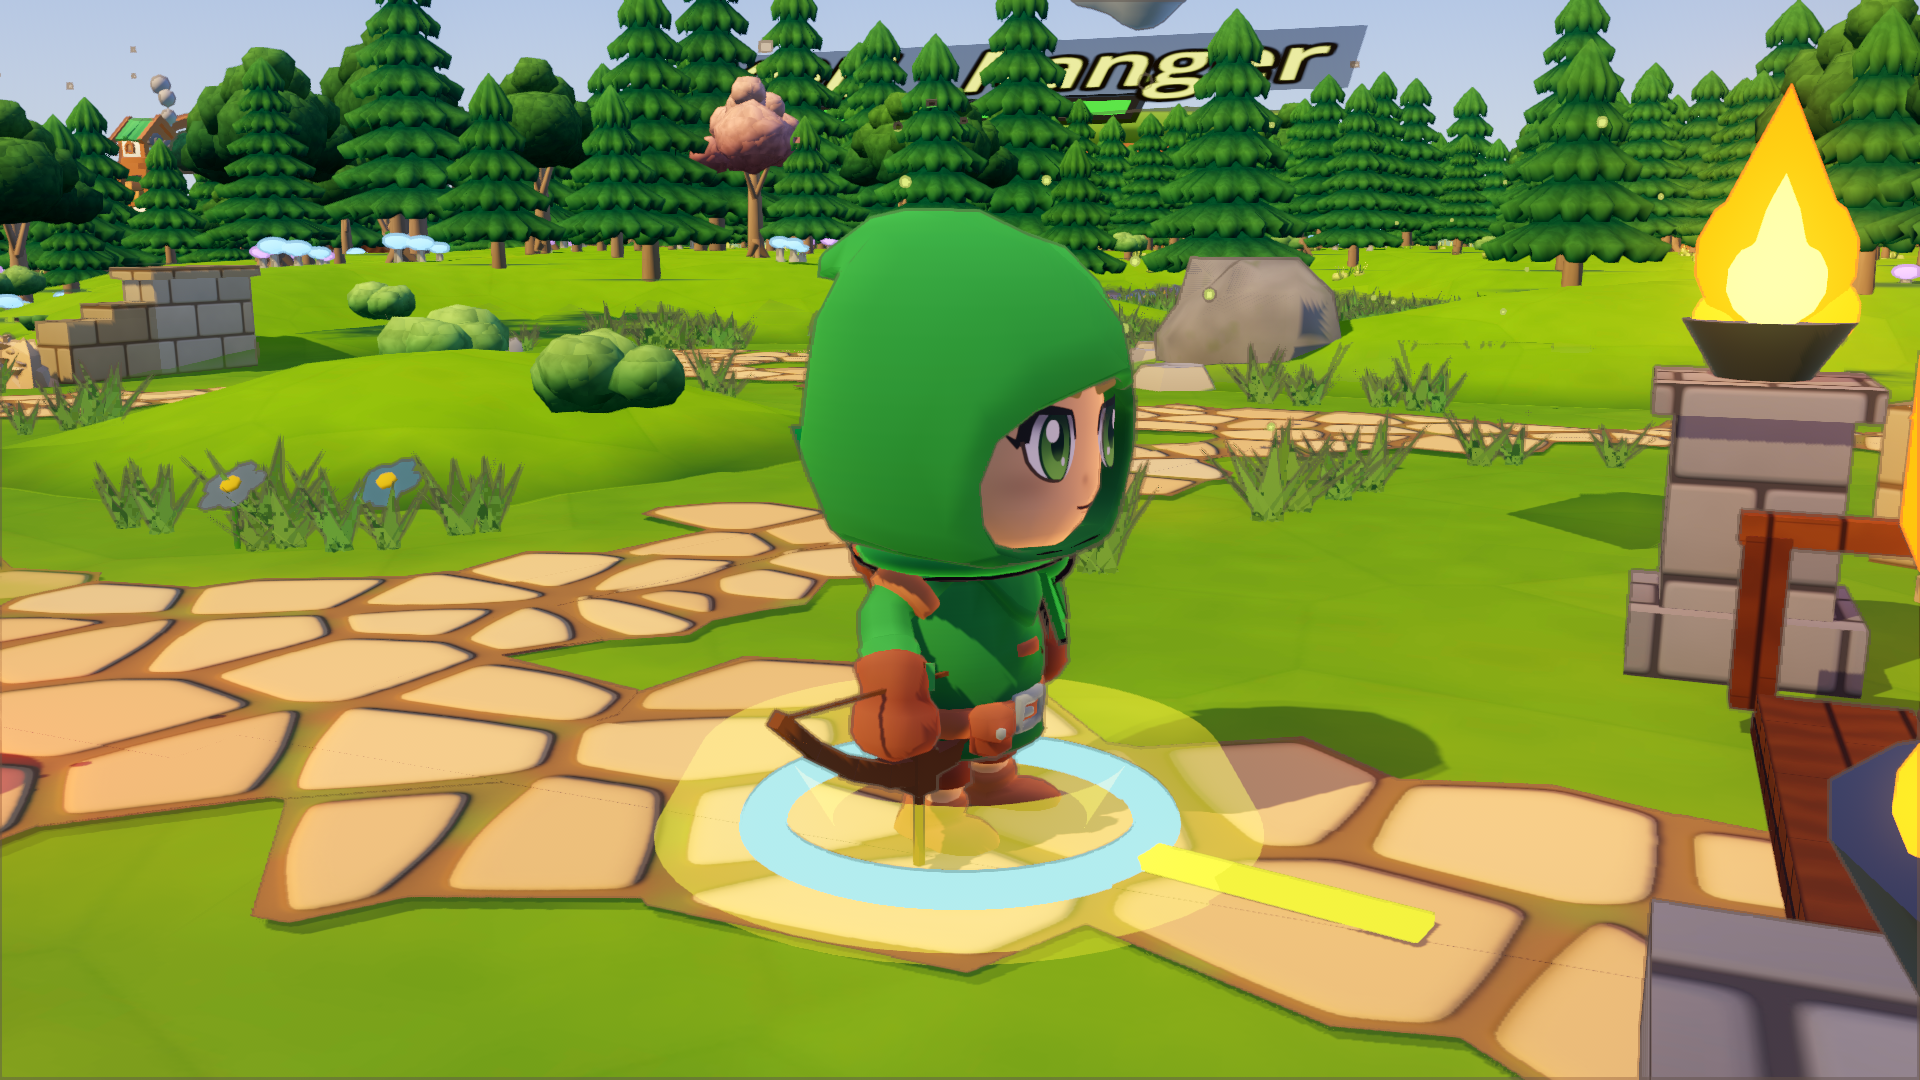
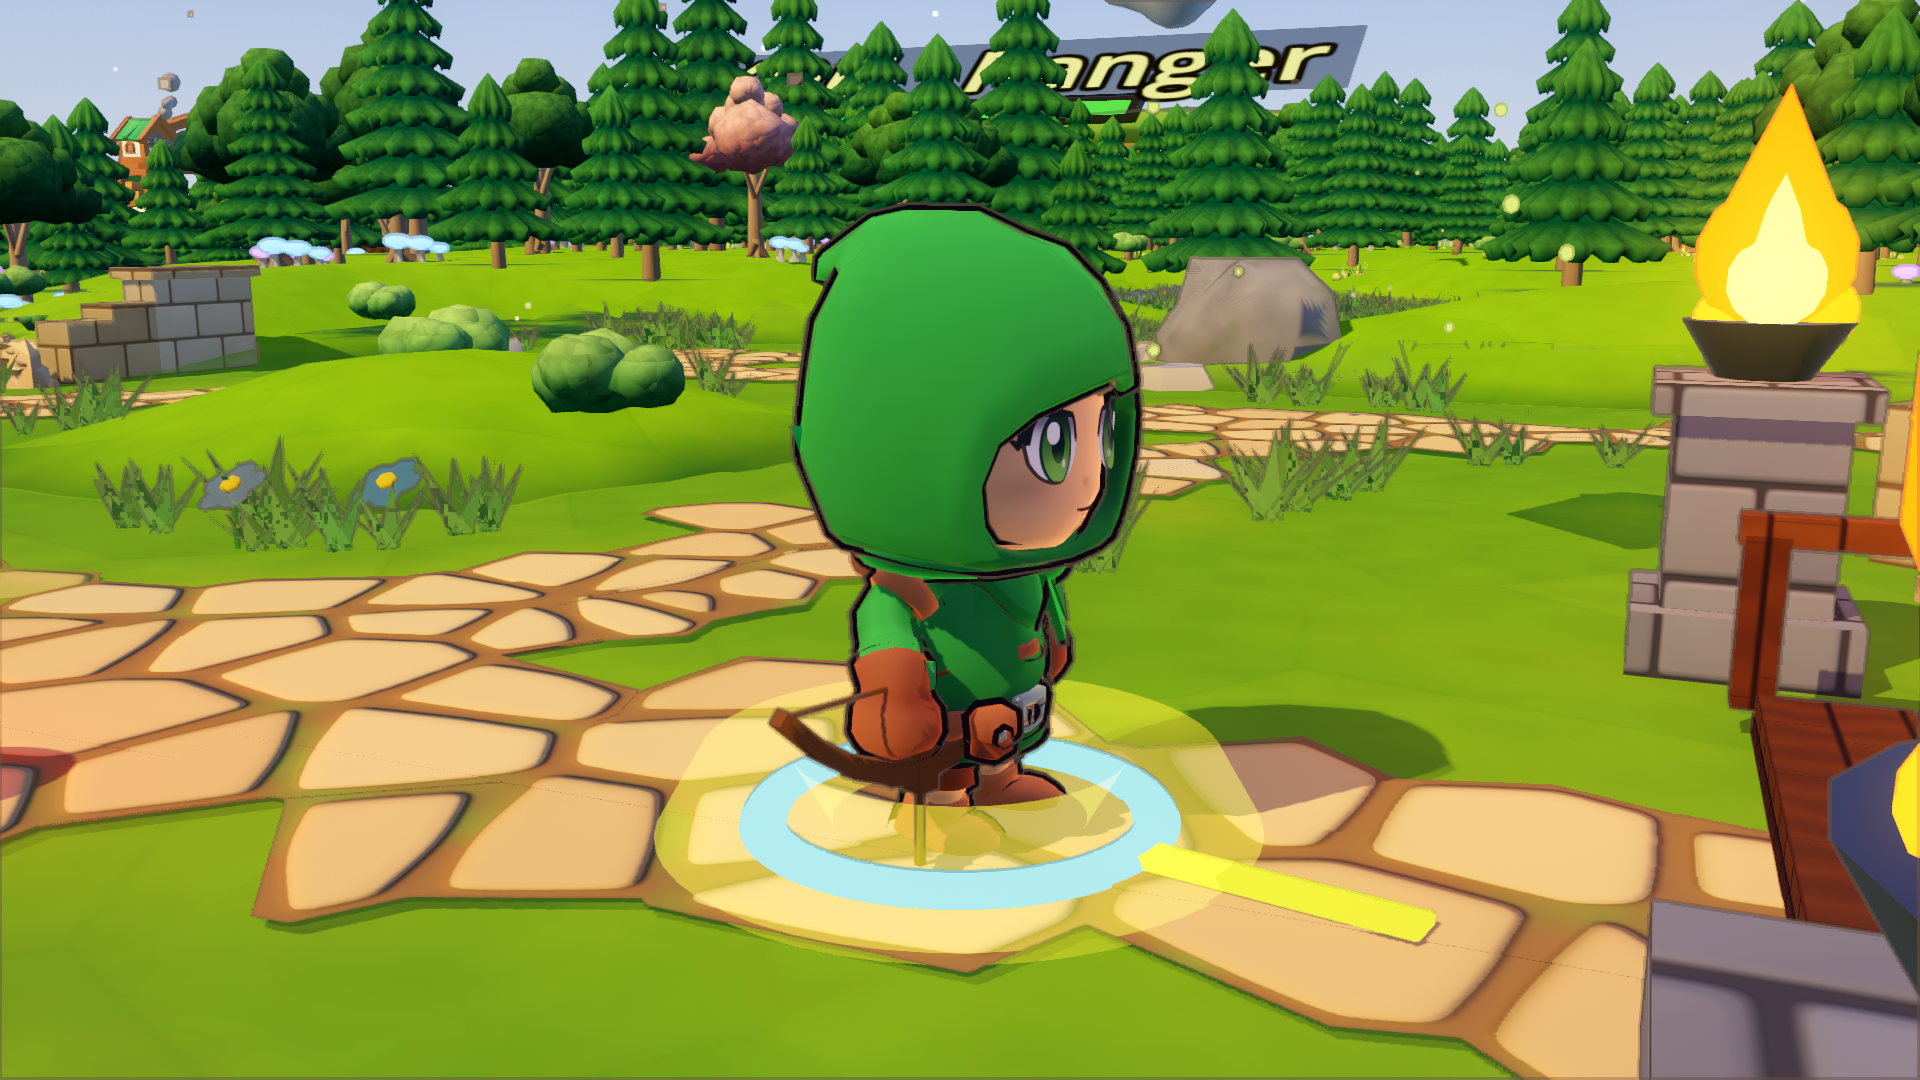
claude-faisal3: turret platforms and seamless rug, CI hot-plug step, evidence

diff --git a/tools/make_textures.py b/tools/make_textures.py
@@ -565,29 +565,24 @@ def make_marble():
 
 
 def make_carpet():
-    """A woven rug: a wide border, an inner band and a lattice of diamonds.
-    Light red so game code can tint it per team."""
+    """A woven rug cloth, seamless. The border and bands are laid as gold and
+    cloth strips by game.gd _add_rug, so this is only the field: a fine weave
+    with a soft diamond lattice (11-05: the old sheet carried its own framed
+    squares and tiled across the rug as a bright green grid, which read as a
+    debug overlay on the Elf yard). Light so game code can tint it per team."""
     ys, xs = np.mgrid[0:N, 0:N].astype(np.float64)
     weave = (np.sin(xs * 0.9) * 0.5 + 0.5) * 0.5 + (np.sin(ys * 0.9) * 0.5 + 0.5) * 0.5
     fuzz = fbm(N, 64, 2, 101)
-    # Tiles 1/2 texture across: border 0..0.08, band 0.08..0.14, field inside.
-    u = (xs % (N / 2)) / (N / 2)
-    v = (ys % (N / 2)) / (N / 2)
-    d = np.minimum(np.minimum(u, 1 - u), np.minimum(v, 1 - v))
-    border = d < 0.07
-    band = (d >= 0.07) & (d < 0.11)
-    inner = d >= 0.11
-    du = np.abs(((u * 6) % 1.0) - 0.5)
-    dv = np.abs(((v * 6) % 1.0) - 0.5)
-    diamond = ((du + dv) < 0.28) & inner
-    small = ((du + dv) < 0.1) & inner
-    color = np.where(border[..., None], rgb(0.95, 0.9, 0.78), rgb(0.8, 0.72, 0.68))
-    color = np.where(band[..., None], rgb(0.62, 0.56, 0.52), color)
-    color = np.where(diamond[..., None], rgb(0.95, 0.88, 0.7), color)
-    color = np.where(small[..., None], rgb(0.6, 0.5, 0.45), color)
-    color = color * (0.9 + 0.1 * weave + 0.06 * fuzz - 0.06)[..., None]
-    height = 0.5 + 0.25 * weave + 0.1 * fuzz + 0.1 * border
-    save("carpet", np.clip(color, 0, 1), np.clip(height, 0, 1), 0.9)
+    u = (xs / N * 8.0) % 1.0
+    v = (ys / N * 8.0) % 1.0
+    d1 = np.abs(u - 0.5) + np.abs(v - 0.5)          # diamond distance from each cell's centre
+    lattice = np.clip(1.0 - np.abs(d1 - 0.5) * 9.0, 0.0, 1.0)   # thin diamond outlines between cells
+    dot = np.clip(1.0 - d1 * 7.0, 0.0, 1.0)         # a small lozenge in each cell
+    base = rgb(0.82, 0.76, 0.72)
+    color = base + (rgb(0.97, 0.9, 0.74) - base) * (0.55 * lattice + 0.4 * dot)[..., None]
+    color = color * (0.92 + 0.08 * weave + 0.05 * fuzz - 0.05)[..., None]
+    height = 0.5 + 0.15 * weave + 0.08 * fuzz + 0.05 * lattice
+    save("carpet", np.clip(color, 0, 1), np.clip(height, 0, 1), 0.5)
 
 
 def make_sand():

diff --git a/docs/evidence/claude-faisal3-fixes-1105/README.md b/docs/evidence/claude-faisal3-fixes-1105/README.md
@@ -1,0 +1,15 @@
+# claude-faisal3 fixes 11-05 (round 2)
+
+| Faisal item | Root cause | Fix | Evidence |
+|---|---|---|---|
+| Green squares round every hero | `side_glow` torus in unit.gd had `rings = 6`: a six-sided glow ring drew a hexagonal patch | 48 rings | after/*.png (ring is round) |
+| Black lines / clipping on helmets, hoods | `_flat_mesh` gives every triangle its own normals; the outline pass grows along normals, so the hull split apart on hard edges (slivers) | smoothed outline directions in the tangent slot + assets/shaders/smooth_outline.gdshader; headband scaled 1.2% (edge z-fight) | before (docs/evidence/.../before) / after sheet |
+| Engineer: no hammer | the built hammer was a 28 cm head on a haft; Root Maul now a big root-wrapped maul tipped over the shoulder (character_model.gd) | after/*-engineer*.png |
+| Engineer deals no damage | covered by tools/combat_input_test.gd (Engineer LMB/J/pad all damage the dummy) | PR #239 |
+| Turret build spot (bright green grid) | the Elf/Human yard rug used carpet_color.jpg, a 2x2-framed sheet that tiled as a lime grid; the pad was a flat decal | seamless diamond-weave carpet (tools/make_textures.py make_carpet), raised two-tier turret platform with team rune ring on every map (economy.gd `_platform`) | spots/before-spot2.png, after-spot2.png, after-spot6.png |
+| Top score bar | cut-out of the reference art: sparkles, curls, hairlines, hollow stag | drawn in code (clean frame, filled leaf/crown crests), info line sits between the crests | hud/before-hud.png, hud/after-hud.png |
+| Portrait clipped | FACE_AT centres were measured on older cards | re-measured per card, 72% crop (88% for wide hats) | hud/after-hud.png |
+| Hot-plug | stuck actions survived a pad plug/pull | `_release_stuck_input()` on every connect/disconnect | tools/hotplug_test.gd (SIMULATED joy events, no real pad), CI step |
+| Basic attack keycap | said J | LMB on keyboard+mouse, new hint line | hud/after-hud.png |
+
+Not in this PR (next): dialogue screen, class selector cards + Veteran Training panel, Armor/customize menu.
